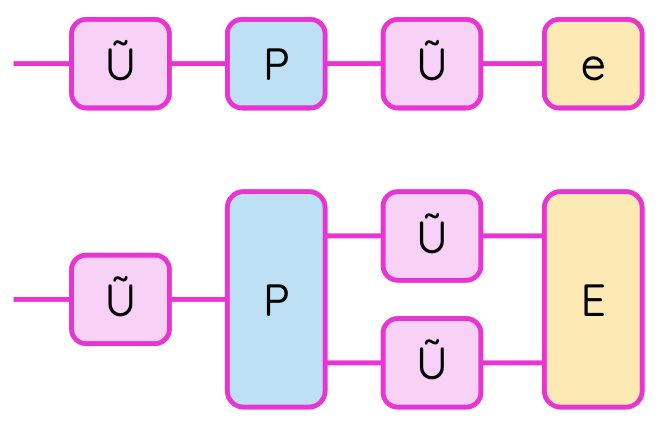
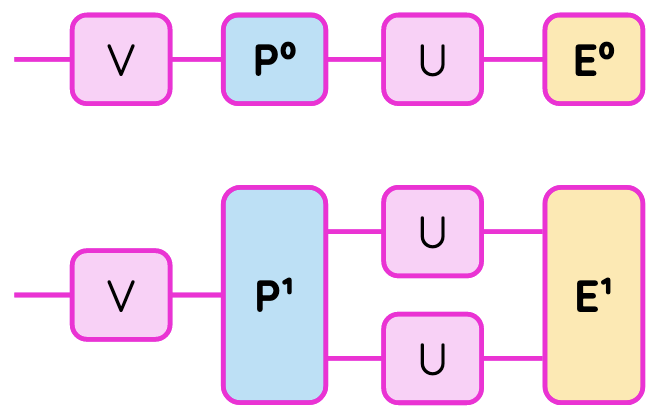
update g+P part

diff --git a/demonstrations/tutorial_liesim3.py b/demonstrations/tutorial_liesim3.py
@@ -23,13 +23,13 @@ the number of qubits. That is for example the case for the transverse field Isin
 We are interested in cases where the majority of gates and observables are described by a small DLA but there are few gates and/or observables
 that are outside the DLA. Take for example the TFIM with :math:`n` qubits and a dimension of
 :math:`\text{dim}(\mathfrak{g}) = 2n(2n-1)/2` (see "Ising-type Lie algebras" :doc:`here </demos/tutorial_liealgebra>`).
-Let us assume we want to expand the DLA by :math:`P = h_{\alpha_1} h_{\alpha_2} \notin \mathfrak{g}` in order to use it as a gate or include it in an observable.
+Let us assume we want to expand the DLA by :math:`p = h_{\alpha_1} h_{\alpha_2} \notin \mathfrak{g}` in order to use it as a gate or include it in an observable.
 Adding product operators and computing their new Lie closure often results in the associative algebra of :math:`\mathfrak{g}`, which in this case
 would yield a dimension of :math:`2(2^{2n-2}-1)`, an exponential increase.
 
-Here, we show how to do the same computation without going to the exponentially large associative algebra, but instead make use of the fact that :math:`P` is
+Here, we show how to do the same computation without going to the exponentially large associative algebra, but instead make use of the fact that :math:`p` is
 a product of DLA elements. We do so by looking at `moments` of :math:`\mathfrak{g}` instead. The :math:`m`-th order moments are products of :math:`(m+1)` DLA elements.
-E.g. :math:`P = h_{\alpha_1} h_{\alpha_2} \notin \mathfrak{g}` is a first order moment. Depending on their order, every non-DLA moment gate increases
+E.g. :math:`p = h_{\alpha_1} h_{\alpha_2} \notin \mathfrak{g}` is a first order moment. Depending on their order, every non-DLA moment gate increases
 the maximum moment order :math:`M_\text{max}` considered in the computation. The overall cost scales with the maximum order :math:`\text{dim}(\mathfrak{g})^{M_\text{max}}`.
 
 In the worst case, each moment expands the space of operators by a factor :math:`\text{dim}(\mathfrak{g})`, such that for :math:`M` moments,
@@ -54,19 +54,20 @@ This is the adjoint identity with the adjoint representation of the Lie algebra 
 
 This lets us evolve any expectation value of DLA elements using the adjoint representation of the DLA.
 For that, we define the expectation value vector :math:`(\boldsymbol{e})_\alpha = \text{tr}[h_\alpha \rho]`.
-Also, let us write :math:`\tilde{U} = e^{-i \theta \text{ad}_{h_\mu}}` corresponding to a unitary :math:`U = e^{-i \theta h_\mu}`.
+
+Also, let us write :math:`U = e^{-i \theta \text{ad}_{h_\mu}}` corresponding to a unitary :math:`\mathcal{U} = e^{-i \theta h_\mu}`.
 Using the adjoint identity above and the cyclic property of the trace, we can write an evolved expectation value vector as
 
-.. math:: \text{tr}\left[h_\alpha U \rho U^\dagger\right] = \sum_\beta \tilde{U}_{\alpha \beta} \text{tr}\left[h_\beta \rho \right].
+.. math:: \text{tr}\left[h_\alpha \mathcal{U} \rho \mathcal{U}^\dagger\right] = \sum_\beta U_{\alpha \beta} \text{tr}\left[h_\beta \rho \right].
 
 Hence, the expectation value vector is simply transformed by matrix multiplication with :math:`\tilde{U}` and we have
 
-.. math:: \boldsymbol{e}^1 = \tilde{U} \boldsymbol{e}^0
+.. math:: \boldsymbol{e}^1 = U \boldsymbol{e}^0
 
 for some input expectation value vector :math:`\boldsymbol{e}^0`.
 
-A circuit comprised of multiple unitaries :math:`U` then simply corresponds to evolving the ecpectation value vector
-according to the corresponding :math:`\tilde{U}`.
+A circuit comprised of multiple unitaries :math:`\mathcal{U}` then simply corresponds to evolving the ecpectation value vector
+according to the corresponding :math:`U`.
 
 We are going to concretely use the DLA of the transverse field Ising model,
 
@@ -103,15 +104,15 @@ def TFIM(n):
 generators, dla, dim_g = TFIM(n=4)
 
 ##############################################################################
-# In regular :math:`\mathfrak{g}`-sim, the unitary evolution :math:`U` of the expectation vector
-# is simply generated by the adjoint representation :math:`\tilde{U}`.
+# In regular :math:`\mathfrak{g}`-sim, the unitary evolution :math:`\mathcal{U}` of the expectation vector
+# is simply generated by the adjoint representation :math:`U`.
 # the DLA :math:`\mathfrak{g}` an generate
 
 adjoint_repr = qml.structure_constants(dla)
 gate = adjoint_repr[-1]
 theta = 0.5
 
-Utilde = expm(theta * gate)
+U = expm(theta * gate)
 
 ##############################################################################
 #
@@ -124,13 +125,13 @@ Utilde = expm(theta * gate)
 # 
 # The basic assumption is that the adjoint action of such a gate generates higher moments of DLA
 # elements that we need to keep track of.
-# In particular, for a gate generated by `p = h_{\mu_1} h_{\mu_2} \notin \mathfrak{g}`,
+# In particular, for a gate generated by :math:`p = h_{\mu_1} h_{\mu_2} \notin \mathfrak{g}`,
 # we assume the adjoint action to be of the form
 # 
-# .. math:: e^{i \theta h_{\mu_1} h_{\mu_2}} h_\alpha e^{-i \theta h_{\mu_1} h_{\mu_2}} = \sum_\beta \tilde{P^0}_{\alpha \beta} h_\beta + \sum_{\beta_1 \beta_2} \tilde{P^1}_{\alpha \beta_1 \beta_2} h_{\beta_1} h_{\beta_2} + ...
+# .. math:: e^{i \theta h_{\mu_1} h_{\mu_2}} h_\alpha e^{-i \theta h_{\mu_1} h_{\mu_2}} = \sum_\beta \boldsymbol{P}^0_{\alpha \beta} h_\beta + \sum_{\beta_1 \beta_2} \boldsymbol{P}^1_{\alpha \beta_1 \beta_2} h_{\beta_1} h_{\beta_2} + ...
 # 
-# Here, :math:`\tilde{P^\ell}` correspond to the contributions of the :math:`\ell`-th `moments` in :math:`\mathfrak{g}`.
-# Let us look at the case where only first order moments contribute to the adjoint action of :math:`P = e^{i \theta h_{\mu_1} h_{\mu_2}}`. 
+# Here, :math:`\boldsymbol{P}^m` correspond to the contributions of the :math:`m`-th moments in :math:`\mathfrak{g}`.
+# Let us look at the case where only first order moments contribute to the adjoint action of :math:`\mathcal{P} = e^{-i \theta h_{\mu_1} h_{\mu_2}}`. 
 #
 # For that, let us construct a concrete example. First we pick two elements from :math:`\mathfrak{g}` such that their product is not in :math:`\mathfrak{g}`.
 
@@ -154,7 +155,7 @@ theta = 0.5
 Up = exppw(theta, p)
 Up_dagger = exppw(-theta, p) # complex conjugate
 
-Ptilde0 = np.zeros((dim_g, dim_g), dtype=float)
+P0 = np.zeros((dim_g, dim_g), dtype=float)
 
 for i, h1 in enumerate(dla):
     res = Up @ h1 @ Up_dagger
@@ -163,9 +164,9 @@ for i, h1 in enumerate(dla):
         # res = ∑ (res · h_j / ||h_j||^2) * h_j 
         value = (res @ h2).trace().real
         value = value / (h2 @ h2).trace()
-        Ptilde0[i, j] = value
+        P0[i, j] = value
 
-Ptilde1 = np.zeros((dim_g, dim_g, dim_g), dtype=float)
+P1 = np.zeros((dim_g, dim_g, dim_g), dtype=float)
 
 for i, h1 in enumerate(dla):
     res = Up @ h1 @ Up_dagger
@@ -181,11 +182,11 @@ for i, h1 in enumerate(dla):
             # res = ∑ (res · p_j / ||p_j||^2) * p_j 
             value = (res @ prod).trace().real
             value = value / (prod @ prod).trace().real
-            Ptilde1[i, j, l] = value
+            P1[i, j, l] = value
             dla_and_M1_vspace.add(prod)
 
 ##############################################################################
-# We want to confirm that the adjoint action of P is indeed fully described by the first moments.
+# We want to confirm that the adjoint action of :math:`\mathcal{P}` is indeed fully described by the first moments.
 #
 # For that, we reconstruct the transformed DLA elements and compare them with the decomposition.
 
@@ -193,27 +194,28 @@ for i, h1 in enumerate(dla):
     res = Up @ h1 @ Up_dagger
     res.simplify()
 
-    reconstruct = sum([Ptilde0[i, j] * dla[j] for j in range(dim_g)])
-    reconstruct += sum([Ptilde1[i, j, l] * dla[j] @ dla[l] for j in range(dim_g) for l in range(dim_g)])
+    reconstruct = sum([P0[i, j] * dla[j] for j in range(dim_g)])
+    reconstruct += sum([P1[i, j, l] * dla[j] @ dla[l] for j in range(dim_g) for l in range(dim_g)])
     reconstruct.simplify()
 
     if res != reconstruct:
         print(f"Missmatch: {res}, {reconstruct}")
 
 ##############################################################################
-# Now that we have successfully constructed a :math:`P` gate,
+# Now that we have successfully constructed a :math:`\mathcal{P}` gate,
 # let us look how entering it in a circuit transforms DLA elements (and therefore expectation value vector elements):
 # 
 # .. math::
 # 
 #     \begin{align*}
-#     (\boldsymbol{e})_\alpha & = \text{tr}\left[h_\alpha P \rho P^\dagger \right] = \text{tr}\left[P^\dagger h_\alpha P \rho \right] \\
-#     \ & = \sum_\beta \tilde{P^0}_{\alpha \beta} \text{tr}\left[ h_\beta \rho \right] + \sum_{\beta_1 \beta_2} \tilde{P^1}_{\alpha \beta_1 \beta_2} \text{tr}\left[ h_{\beta_1} h_{\beta_2} \rho \right] \\
-#     \ & = \sum_\beta \tilde{P^0}_{\alpha \beta} (\boldsymbol{e})_\beta + \sum_{\beta_1 \beta_2} \tilde{P^1}_{\alpha \beta_1 \beta_2} (\boldsymbol{E}^1)_{\beta_1 \beta_2}
+#     (\boldsymbol{e})_\alpha & = \text{tr}\left[h_\alpha \mathcal{P} \rho \mathcal{P}^\dagger \right] = \text{tr}\left[\mathcal{P}^\dagger h_\alpha \mathcal{P} \rho \right] \\
+#     \ & = \sum_\beta \boldsymbol{P}^0_{\alpha \beta} \text{tr}\left[ h_\beta \rho \right] + \sum_{\beta_1 \beta_2} \boldsymbol{P}^1_{\alpha \beta_1 \beta_2} \text{tr}\left[ h_{\beta_1} h_{\beta_2} \rho \right] \\
+#     \ & = \sum_\beta \boldsymbol{P}^0_{\alpha \beta} \boldsymbol{E}^0_\beta + \sum_{\beta_1 \beta_2} \boldsymbol{P}^1_{\alpha \beta_1 \beta_2} \boldsymbol{E}^1_{\beta_1 \beta_2}
 #     \end{align*}
 # 
 # Here we have defined the expectation tensor
-# :math:`(\boldsymbol{E}^m)_{\alpha \beta_1 , .. , \beta_{m+1}} = \text{tr}\left[ h_{\beta_1} .. h_{\beta_{m+1}} \rho \right]` for the :math:`m`-th moment.
+# :math:`(\boldsymbol{E}^m)_{\beta_1 , .. , \beta_{m+1}} = \text{tr}\left[ h_{\beta_1} .. h_{\beta_{m+1}} \rho \right]` for the :math:`m`-th moment.
+# Note that :math:`\vec{e} = \boldsymbol{E}^0` is the expectation value vector for regular :math:`\mathfrak{g}`-sim.
 #
 #
 # Such a computation corresponds to the branching off from the original diagram, with an extra contribution coming from the higher moments.
@@ -222,14 +224,14 @@ for i, h1 in enumerate(dla):
 #    :width: 35%
 #    :align: center
 # 
-# When inserting an arbitrary number of DLA gates :math:`\tilde{U} = \tilde{U}_1 \tilde{U}_2 \tilde{U}_3 ..` before and after the :math:`P` gate,
+# When inserting an arbitrary number of DLA gates :math:`U` before and :math:`V` after the :math:`\mathcal{P}` gate,
 # we obtain the following diagram.
 # 
 # .. figure:: /_static/demonstration_assets/liesim3/first_order_diagram.png
 #    :width: 45%
 #    :align: center
 # 
-# Note that in one vertical column the :math:`\tilde{U}` correspond to the same matrices.
+# Note that in one vertical column the :math:`U` correspond to the same matrices.
 #
 #
 # Example
